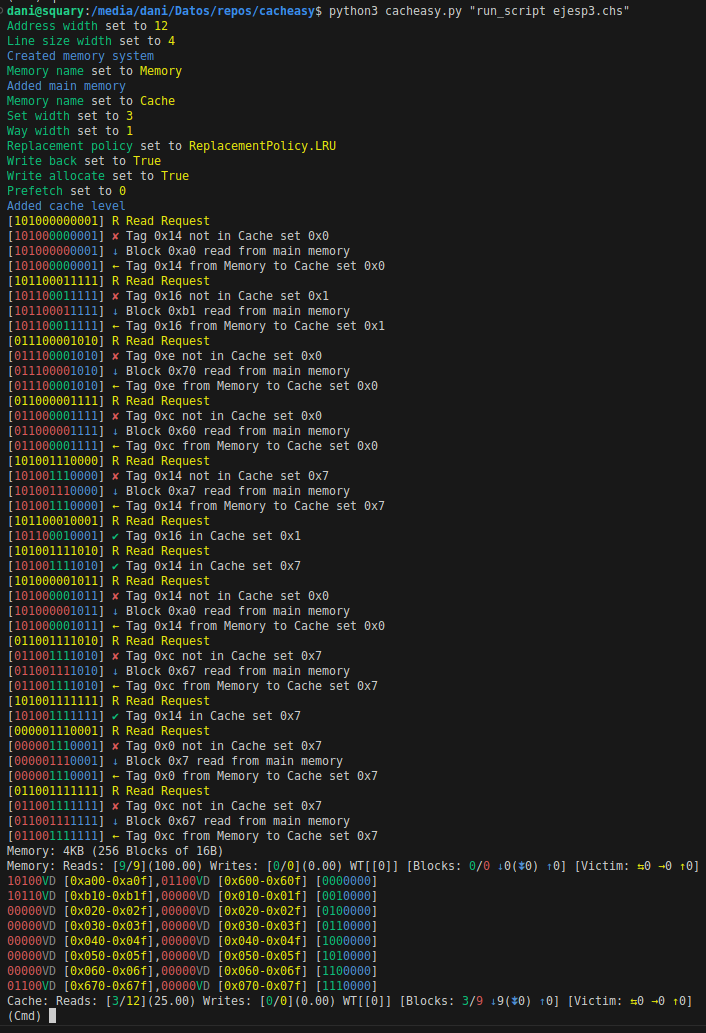
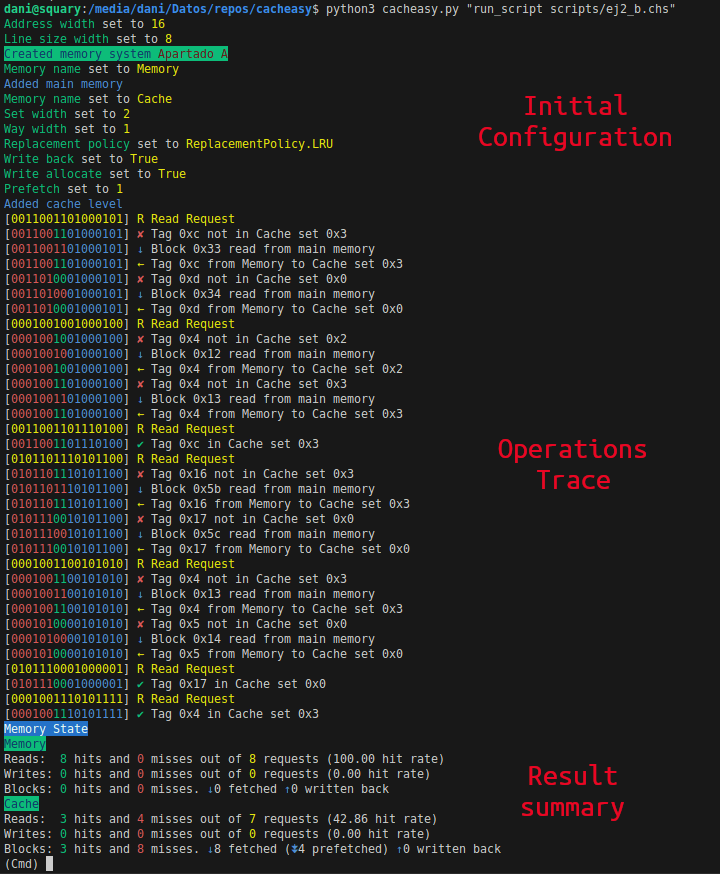
Appearance improvements. Fixed exercises

diff --git a/cacheasy.py b/cacheasy.py
@@ -1,5 +1,6 @@
 from enum import Enum
 import numpy as np
+import math
 
 rng = np.random.default_rng()
 
@@ -58,7 +59,7 @@ from collections import OrderedDict
 
 class VirtualMemory:
     
-    #TLB
+    #page table
     #virtual page, physical page (marco), active, edad
     
     def __init__(self, name, virtual_address_width, address_width, page_width):
@@ -72,25 +73,25 @@ class VirtualMemory:
         self.page_width = page_width
         self.number_of_pages = 2**(self.address_width-self.page_width)
         self.statistics = CacheStatistics()
-        #TLB is an ordered dictionary of virtual_page, phys_page values
+        #Page table is an ordered dictionary of virtual_page, phys_page values
         #being in the dictionary means the page is actively translated
         #the position in the dictionary is the age of the page
         #(older pages first due to OrderedDict implementation)
-        self.TLB = OrderedDict() 
+        self.page_table = OrderedDict() 
         
     def add_memory_system(self, memory_system):
         self.memory_system = memory_system
         
     def evict_load_page(self, virtual_page):
-        if virtual_page not in self.TLB:
+        if virtual_page not in self.page_table:
             self.statistics.line_miss += 1
             print(f"{prettydir(virtual_page * 2**self.page_width, self.virtual_address_width, 0, self.page_width)} {prettyfail} Virtual page 0x{virtual_page:0x} not found")
             physical_page = None
-            if len(self.TLB) == self.number_of_pages:
+            if len(self.page_table) == self.number_of_pages:
                 #evict
                 self.statistics.line_evict += 1
-                entry = self.TLB.popitem(last = False)
-                print(f"{prettydir(virtual_page * 2**self.page_width, self.virtual_address_width, 0, self.page_width)} {prettyfail} TLB full. Invalidating virtual page 0x{entry[0]:0x} @ physical 0x{entry[1]:0x}")
+                entry = self.page_table.popitem(last = False)
+                print(f"{prettydir(virtual_page * 2**self.page_width, self.virtual_address_width, 0, self.page_width)} {prettyfail} Page table full. Invalidating virtual page 0x{entry[0]:0x} @ physical 0x{entry[1]:0x}")
                 physical_page = entry[1] #this page will be the new physical one
                 initial_address = physical_page * 2**self.page_width
                 final_address = physical_page * 2**self.page_width + 2**self.page_width - 1
@@ -99,22 +100,22 @@ class VirtualMemory:
                 print(f"{prettydir(virtual_page * 2**self.page_width, self.virtual_address_width, 0, self.page_width)} {prettyswap} Virtual page 0x{virtual_page:0x} replaces 0x{entry[0]:0x} on physical page 0x{physical_page:0x}")
             else:
                 self.statistics.line_pull += 1
-                physical_page = len(self.TLB)
+                physical_page = len(self.page_table)
                 initial_address = physical_page * 2**self.page_width
                 self.memory_system.load(initial_address)
                 print(f"{prettydir(virtual_page * 2**self.page_width, self.virtual_address_width, 0, self.page_width)} {prettydown} Virtual page 0x{virtual_page:0x} loaded into 0x{physical_page:0x}")
-            self.TLB[virtual_page] = physical_page
+            self.page_table[virtual_page] = physical_page
         else:
             self.statistics.line_hit += 1
-            physical_page = self.TLB[virtual_page]
-            self.TLB.move_to_end(virtual_page)
+            physical_page = self.page_table[virtual_page]
+            self.page_table.move_to_end(virtual_page)
             print(f"{prettydir(virtual_page * 2**self.page_width, self.virtual_address_width, 0, self.page_width)} {prettytick} Virtual page 0x{virtual_page:0x} found at physical 0x{physical_page:0x}")
         
                 
             
     def get_physical_address(self, virtual_address):
         virtual_page = virtual_address >> self.page_width
-        physical_page = self.TLB[virtual_page]
+        physical_page = self.page_table[virtual_page]
         offset = virtual_address % (2**self.page_width)
         return (physical_page << self.page_width) + offset
     
@@ -156,11 +157,21 @@ class VirtualMemory:
     def show_state(self, only_stats = False):
         hits = self.statistics.line_hit
         total = self.statistics.line_hit + self.statistics.line_miss
-        printstr = f"{self.name}: Translations: [{Fore.GREEN}{hits}{Style.RESET_ALL}/{Fore.YELLOW}{total}{Style.RESET_ALL}] {prettydown}{self.statistics.line_pull} {prettyup}{self.statistics.line_evict} \nTLB: "
+        
+        hitrate = (hits / total) * 100  if total > 0 else 0
+        
+        print(f"{Fore.BLUE}{Back.GREEN}{self.name}{Style.RESET_ALL}")
+        printstr = f"Translations: {Fore.GREEN}{hits}{Style.RESET_ALL} hits out of {Fore.YELLOW}{total}{Style.RESET_ALL} requests ({hitrate:.2f} hit rate). {prettydown}{self.statistics.line_pull} pages pulled and {prettyup}{self.statistics.line_evict} pages swapped"
         numzeros_virt = (self.virtual_address_width - self.page_width + 3) // 4
         numzeros_phys = (self.address_width - self.page_width + 3) // 4
-        for entry in self.TLB.items():
-            printstr += f"[{Fore.RED}0x{entry[0]:0{numzeros_virt}x} {prettyright} {Fore.GREEN}0x{entry[1]:0{numzeros_phys}x}{Style.RESET_ALL}]"
+        if not only_stats:
+            printstr += f"\n{'-'*(numzeros_phys+numzeros_virt + 7)}\n"
+            
+            translations = []
+            for entry in self.page_table.items():
+                translations.append(f"{Fore.RED}0x{entry[0]:0{numzeros_virt}x} {prettyright} {Fore.GREEN}0x{entry[1]:0{numzeros_phys}x}{Style.RESET_ALL}")
+                
+            printstr += "\n".join(translations)
         
         print(printstr)        
         self.memory_system.show_state(only_stats)
@@ -218,9 +229,14 @@ class MemorySystem:
 
     def show_state(self, only_stats = False):
         for level in self.levels:
+            print(f"{Fore.BLUE}{Back.GREEN}{level.name}{Style.RESET_ALL}")
             if not only_stats:
                 print(level)
             level.show_statistics()
+            
+    def show_costs(self):
+        for level in self.levels:
+            print(f"{Fore.BLUE}{Back.GREEN}{level.name}{Style.RESET_ALL}")
             level.show_costs()
             
     #clear from bottom up
@@ -243,7 +259,7 @@ class CacheLine:
         self.valid = valid
         
     def prettyprint(self, tag_width):
-        return f"{prettydir(self.tag, tag_width, 0, 0, brackets = False)}{Fore.BLACK if not self.valid else Fore.GREEN}V{Style.RESET_ALL}{Fore.BLACK if not self.dirty else Fore.YELLOW}D{Style.RESET_ALL}"
+        return f"{Fore.BLACK if not self.valid else Fore.GREEN}V{Style.RESET_ALL}{Fore.BLACK if not self.dirty else Fore.YELLOW}D{Style.RESET_ALL} {prettydir(self.tag, tag_width, 0, 0, brackets = False)}"
     
         
 class CacheStatistics:
@@ -273,16 +289,24 @@ class CacheStatistics:
         self.line_pull = 0
         self.line_prefetch = 0
 
-    def get_statistics(self):
+    def get_statistics(self, show_wt = True, show_prefetch = True, show_victim = True):
         total_reads = self.read_hit + self.read_miss
         hitrate_read = float(self.read_hit) / float(total_reads) * 100.0 if total_reads > 0 else 0
         total_writes = self.write_hit + self.write_miss
         hitrate_write = float(self.write_hit) / float(total_writes) * 100.0 if total_writes > 0 else 0
-        return f'Reads: [{Fore.GREEN}{self.read_hit}{Style.RESET_ALL}/{Fore.YELLOW}{total_reads}{Style.RESET_ALL}]({hitrate_read:.2f}) Writes: [{Fore.GREEN}{self.write_hit}{Style.RESET_ALL}/{Fore.YELLOW}{total_writes}{Style.RESET_ALL}]({hitrate_write:.2f}) [{Fore.LIGHTMAGENTA_EX}{self.write_through}{Style.RESET_ALL}{prettyup}]' + \
-            f" [Blocks: {Fore.GREEN}{self.line_hit}{Style.RESET_ALL}/{Fore.RED}{self.line_miss} {prettydown}{self.line_pull}({prettydowndown}{self.line_prefetch}) {prettyup}{self.line_evict}]" + \
-            f" [Victim: {prettyswap}{self.victim_swap} {prettyright}{self.victim_push} {prettyupyellow}{self.victim_evict}]"
+        hit_width = math.ceil(math.log10(1+max(self.read_hit, self.write_hit, self.line_hit)))
+        mis_width = math.ceil(math.log10(1+max(self.read_miss, self.write_miss, self.line_miss)))
+        tot_width = math.ceil(math.log10(1+max(total_reads, total_writes)))
+        
+        wttext = f"[{Fore.LIGHTMAGENTA_EX}{self.write_through}{Style.RESET_ALL}{prettyup} written through]" if show_wt else ""
+        pftext = f"({prettydowndown}{self.line_prefetch} prefetched) " if show_prefetch else ""
+        vctext = f"\nVictim: {prettyswap}{self.victim_swap} swapped {prettyright}{self.victim_push} pushed to victim {prettyupyellow}{self.victim_evict} evicted from victim" if show_victim else ""
+        return f'Reads:  {Fore.GREEN}{self.read_hit:{hit_width}d}{Style.RESET_ALL} hits and {Fore.RED}{self.read_miss:{mis_width}d}{Style.RESET_ALL} misses out of {Fore.YELLOW}{total_reads:{tot_width}d}{Style.RESET_ALL} requests ({hitrate_read:.2f} hit rate) \n'+\
+            f'Writes: {Fore.GREEN}{self.write_hit:{hit_width}d}{Style.RESET_ALL} hits and {Fore.RED}{self.write_miss:{mis_width}d}{Style.RESET_ALL} misses out of {Fore.YELLOW}{total_writes:{tot_width}d}{Style.RESET_ALL} requests ({hitrate_write:.2f} hit rate) {wttext}\n' + \
+            f"Blocks: {Fore.GREEN}{self.line_hit:{hit_width}d}{Style.RESET_ALL} hits and {Fore.RED}{self.line_miss:{mis_width}d}{Style.RESET_ALL} misses. {prettydown}{self.line_pull} fetched {pftext}{prettyup}{self.line_evict} written back" + \
+            vctext
             
-    def get_cost(self):
+    def get_cost(self, show_through=False):
         total_hit = self.read_hit + self.write_hit
         cost_hit = total_hit * self.cost_hit
         total_miss = self.read_miss + self.write_miss
@@ -292,7 +316,8 @@ class CacheStatistics:
         total_through = self.write_through
         cost_through = total_through * self.cost_through
         total_cost = cost_access + cost_hit + cost_miss + cost_through
-        return f'Cost: [{Fore.YELLOW}{total_cost}{Style.RESET_ALL}] {prettyright} {Fore.YELLOW}{total_access}{Style.RESET_ALL} accesses: [{Fore.YELLOW}{cost_access}{Style.RESET_ALL}] | {Fore.GREEN}{total_hit}{Style.RESET_ALL} hits: [{Fore.YELLOW}{cost_hit}{Style.RESET_ALL}] | {Fore.RED}{total_miss}{Style.RESET_ALL} misses: [{Fore.YELLOW}{cost_miss}{Style.RESET_ALL}] | {Fore.BLUE}{total_through}{Style.RESET_ALL} through: [{Fore.YELLOW}{cost_through}{Style.RESET_ALL}]'
+        wttext = f". {Fore.BLUE}{total_through}{Style.RESET_ALL} write-through cost [{Fore.YELLOW}{cost_through}{Style.RESET_ALL}]" if show_through else ""
+        return f'Cost: [{Fore.YELLOW}{total_cost}{Style.RESET_ALL}] total cost, of which: {Fore.YELLOW}{total_access}{Style.RESET_ALL} accesses cost [{Fore.YELLOW}{cost_access}{Style.RESET_ALL}], {Fore.GREEN}{total_hit}{Style.RESET_ALL} hits cost [{Fore.YELLOW}{cost_hit}{Style.RESET_ALL}], and {Fore.RED}{total_miss}{Style.RESET_ALL} misses cost [{Fore.YELLOW}{cost_miss}{Style.RESET_ALL}]{wttext}'
 
 
 class MainMemory:
@@ -318,17 +343,17 @@ class MainMemory:
 
     def write(self, addr):
         self.statistics.write_hit += 1
-        print(f"{prettydir(addr, self.address_width, 0, self.line_size_width, virtualbits=self.virtual_address_width)} {prettyup}( Block 0x{self.get_block(addr):0x} written to main memory")
+        print(f"{prettydir(addr, self.address_width, 0, self.line_size_width, virtualbits=self.virtual_address_width)} {prettyup} Block 0x{self.get_block(addr):0x} written to main memory")
         return True
 
     def write_line(self, line):
         return self.write(line.addr)
 
     def show_statistics(self):
-        print(f"{self.name}: {self.statistics.get_statistics()}")
+        print(f"{self.statistics.get_statistics(show_prefetch=False, show_victim=False, show_wt=False)}")
         
     def show_costs(self):
-        print(f"{self.name}: {self.statistics.get_cost()}")
+        print(f"{self.statistics.get_cost(show_through=False)}")
 
     def reset_statistics(self):
         self.statistics.reset()
@@ -601,19 +626,22 @@ class Cache:
         for (i, seti) in enumerate(self.set_data):
             linestr = []
             for line in seti:
-                #linestr.append(line.prettyprint(self.address_width - self.line_size_width - self.set_width))
                 hex_fmt = '0' + str((self.address_width + 3) // 4) + 'x'
-                base_addr = line.tag * (2**(self.line_size_width + self.set_width)) + i*2**self.line_size_width
-                high_addr = base_addr + 2**(self.line_size_width) - 1
-                linestr.append(('%s [' + Fore.YELLOW + '0x%s-0x%s' + Style.RESET_ALL + ']') % (line.prettyprint(self.address_width - self.line_size_width - self.set_width), format(base_addr, hex_fmt), format(high_addr, hex_fmt)))
+                base_addr = line.tag * (2**(self.line_size_width + self.set_width)) + i*2**self.line_size_width if line.valid else 0
+                high_addr = base_addr + 2**(self.line_size_width) - 1 if line.valid else 0
+                linestr.append(f"{line.prettyprint(self.address_width - self.line_size_width - self.set_width)}{prettydir(i << self.line_size_width, self.line_size_width + self.set_width, self.set_width, self.line_size_width, brackets=False)} [{Fore.YELLOW if line.valid else Fore.BLACK}0x{format(base_addr, hex_fmt)}-0x{format(high_addr, hex_fmt)}{Style.RESET_ALL}]")
 
-
-            setstr.append(f"{','.join(linestr)} {prettydir(i << self.line_size_width, self.line_size_width + self.set_width, self.set_width, self.line_size_width)}")
+            setstr.append("\n".join(linestr))
+            
+        printwidth = (11+self.address_width+2*((self.address_width + 3) // 4))
+        #indent = (printwidth - len(self.name)) // 2
+        #{' '*indent}{self.name}\n
+        title = f"{'-'*printwidth}\n"
                         
         if self.victim:
-            return "\n".join(setstr) + "\n" + str(self.victim)
+            return title + "\n".join(setstr) + "\nVictim\n" + str(self.victim)
         else:
-            return "\n".join(setstr)
+            return title + "\n".join(setstr)
         
     def clear(self, address_low, address_high):
         if self.victim is not None:
@@ -646,10 +674,10 @@ class Cache:
         self._write(address, dirty=False) #no questions asked above. When calling this function address should not be in this memory
 
     def show_statistics(self):
-        print(f"{self.name}: {self.statistics.get_statistics()}")
+        print(f"{self.statistics.get_statistics(show_prefetch=self.prefetch, show_victim=self.victim is not None, show_wt=not self.write_allocate)}")
     
     def show_costs(self):
-        print(f"{self.name}: {self.statistics.get_cost()}")
+        print(f"{self.statistics.get_cost(show_through=not self.write_allocate)}")
 
     def reset_statistics(self):
         self.statistics.reset()
@@ -753,7 +781,11 @@ class Cacheasy(cmd2.Cmd):
         print(f"Prefetch blocks: {self.prefetch}")
 
     def do_show_state(self, args):
+        print(f"{Fore.GREEN}{Back.BLUE}Memory State{Style.RESET_ALL}")
         self.memsys.show_state(only_stats=args == "stats")
+        
+    def do_show_costs(self, args):
+        self.memsys.show_costs()
 
     def parseint(self, oldval, args, name=""):
         try:

diff --git a/scripts/ej4_d.py b/scripts/ej4_d.py
@@ -12,6 +12,7 @@ app('write_back True', echo=True)
 app('write_allocate True', echo=True)
 app('prefetch 0', echo=True)
 app('cache', echo=True)
+app('cost_access 0', echo=True)
 app('cost_hit 1', echo=True)
 app('cost_miss 200', echo=True)
 app('cost_through 200', echo=True)
@@ -25,6 +26,7 @@ app('write_back True', echo=True)
 app('write_allocate False', echo=True)
 app('prefetch 0', echo=True)
 app('cache', echo=True)
+app('cost_access 0', echo=True)
 app('cost_hit 1', echo=True)
 app('cost_miss 15', echo=True)
 app('cost_through 50', echo=True)
@@ -37,3 +39,4 @@ for i in range(128):
         app('read ' + str(8*i), echo=True)
         app('read ' + str(8*i+4), echo=True)
 app('show_state stats', echo=True)
+app('show_costs', echo=True)

diff --git a/scripts/ej5_a.py b/scripts/ej5_a.py
@@ -21,7 +21,7 @@ for i in range(16):
     app('read ' + str(dir_a + 4*i), echo=True)
     app('write ' + str(dir_c + 4*i), echo=True)
 app('show_state stats', echo=True)
-
+app('show_costs', echo=True)
 
 #int A [16][16];
 #int B [32];
